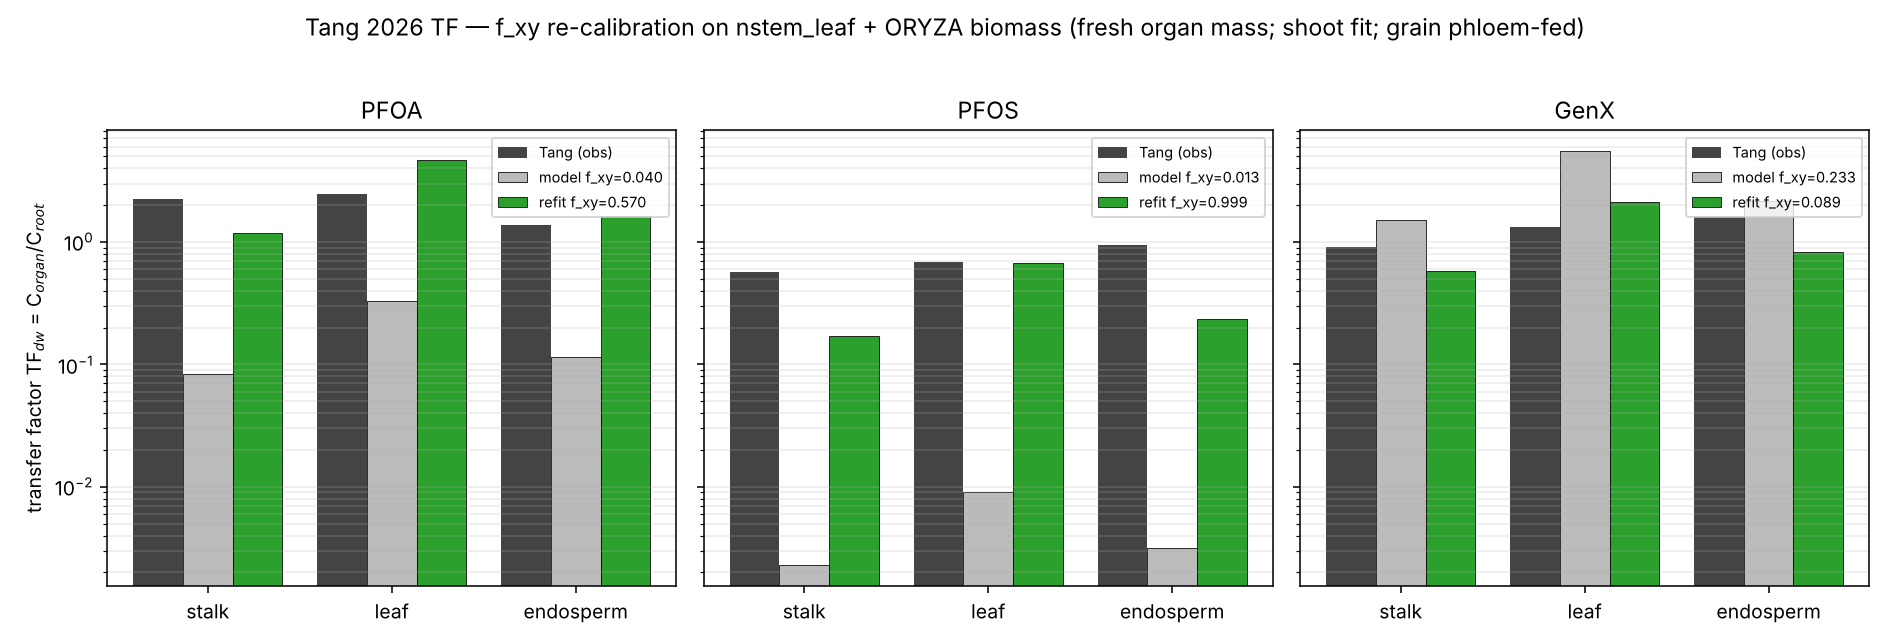
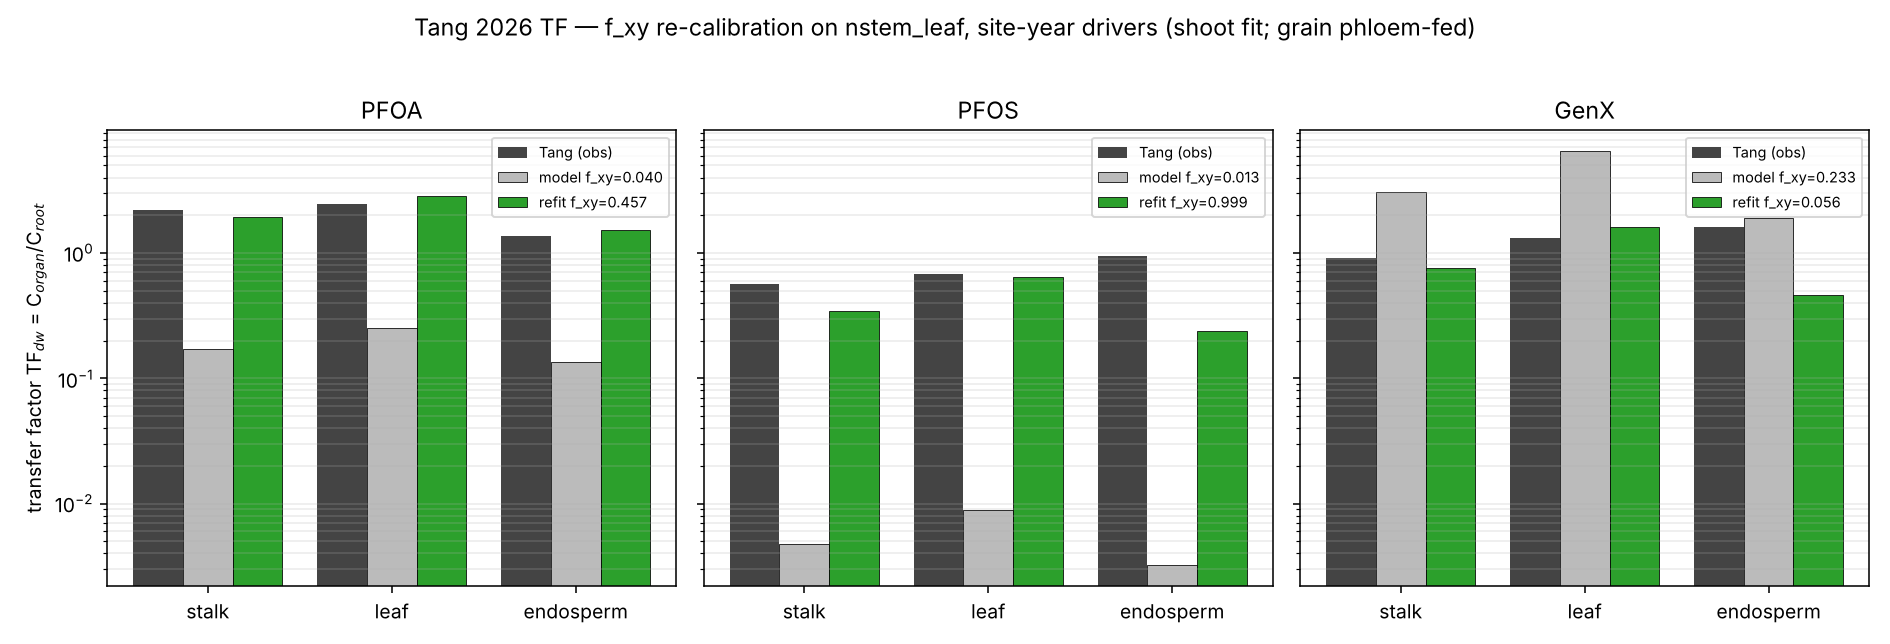
Tang refit on the site-year drivers; Kim and Li re-scored on the corrected model
- validation/tang2026_fxy_refit.py (nstem_leaf, default drivers, harvest operator, 0.1 ug/g):
  f_xy PFOA 0.457 / PFOS 0.999 (ceiling) / GenX 0.056; overall 1.41 -> 0.28 in-sample.
  model_api.TANG_REFIT_FXY updated.
- Kim 2019 with non-detects (pre-registered rule unchanged): point / interval log10 RMSE
  mono 2.06/1.77, fit 0.68/0.54, lipid 0.50/0.28, nstem+lipid 0.43/0.18 -> no robust
  winner (nstem+lipid leads lipid by < 0.1 on the point score); C11 rise robust, C12 not.
- Li 2025 stage by stage: nstem+lipid 0.43/0.55 (shoot/grain) beats every other variant
  by > 0.1 on both -> discriminates, as before; holds under the stage-DVS shifts and both
  post-hoc estimators; no shape signal.

(Correction to the previous commit message: amendment 1 of the refit pre-registration is
1f75f42, not b9e9a85.)

Claude-Session: https://claude.ai/code/session_013b8P7j4Mwgr9L9hKoQBuRB

diff --git a/tests/test_kim2019_censored.py b/tests/test_kim2019_censored.py
@@ -51,15 +51,16 @@ def test_the_c11_rise_survives_the_non_detects_and_c12_does_not(result):
 
 def test_scores_and_verdict(result):
     sc = result["scores"]
-    assert sc["lipid"]["point"] == pytest.approx(0.50, abs=0.02)        # the documented Kim score
-    assert sc["mono"]["point"] == pytest.approx(2.77, abs=0.03)
-    assert sc["W2"]["point"] == pytest.approx(1.67, abs=0.03)
-    assert sc["nstem_lipid"]["interval"] == pytest.approx(0.14, abs=0.02)
-    assert sc["lipid"]["interval"] == pytest.approx(0.38, abs=0.02)
+    assert sc["lipid"]["point"] == pytest.approx(0.50, abs=0.02)
+    assert sc["nstem_lipid"]["point"] == pytest.approx(0.43, abs=0.02)
+    assert sc["mono"]["point"] == pytest.approx(2.06, abs=0.03)
+    assert sc["fit"]["point"] == pytest.approx(0.68, abs=0.03)
+    assert sc["nstem_lipid"]["interval"] == pytest.approx(0.18, abs=0.02)
+    assert sc["lipid"]["interval"] == pytest.approx(0.28, abs=0.02)
     for v in ("lipid", "nstem_lipid"):
-        for u in ("mono", "W2"):
-            for k in ("point", "interval"):
-                assert sc[u][k] - sc[v][k] > 1.0
+        for k in ("point", "interval"):
+            assert sc["mono"][k] - sc[v][k] > 1.0                      # the free anion misses
+            assert sc["fit"][k] - sc[v][k] > 0.15                      # so does the Yamazaki fit
     assert all(sc[v]["interval"] <= sc[v]["point"] for v in sc)         # intervals only help
     assert result["winner"] is None
 

diff --git a/tests/test_li2025_stage_resolved.py b/tests/test_li2025_stage_resolved.py
@@ -61,9 +61,9 @@ def test_the_pre_registered_verdict(result):
     sc = result["scores"]
     assert result["winner"] == "nstem_lipid"
     assert sc["nstem_lipid"]["rmse"]["shoot"] == pytest.approx(0.43, abs=0.02)
-    assert sc["nstem_lipid"]["rmse"]["grain"] == pytest.approx(0.52, abs=0.02)
-    assert sc["lipid"]["rmse"]["shoot"] == pytest.approx(0.81, abs=0.02)
-    assert sc["lipid"]["rmse"]["grain"] == pytest.approx(1.52, abs=0.03)
+    assert sc["nstem_lipid"]["rmse"]["grain"] == pytest.approx(0.55, abs=0.02)
+    assert sc["lipid"]["rmse"]["shoot"] == pytest.approx(0.95, abs=0.02)
+    assert sc["lipid"]["rmse"]["grain"] == pytest.approx(1.17, abs=0.03)
 
 
 def test_posthoc_estimators_and_decomposition(result):

diff --git a/src/model_api.py b/src/model_api.py
@@ -219,7 +219,7 @@ def yamazaki_harvest_baf(congener, runs="both", dead_leaf_attached=1.0, scenario
 TANG_CONGENERS = ("PFOA", "PFOS", "GenX")
 # f_xy re-fit to Tang TF at the 0.1 ug/g dose (OVERRIDE-only; validation/tang2026_fxy_refit.py),
 # on the same drivers `tang_tf_validation` runs (the calibration site-year).
-TANG_REFIT_FXY = {"PFOA": 0.570, "PFOS": 0.999, "GenX": 0.089}
+TANG_REFIT_FXY = {"PFOA": 0.457, "PFOS": 0.999, "GenX": 0.056}
 _TANG_TF_ENDPOINT = {"TF_stalk": "stalk", "TF_leaf": "leaf", "TF_endosperm": "endosperm"}
 # (model grain pool, Tang organ name, theta key) for the fresh->dry conversion
 _TANG_ORGANS = (("stem", "stalk", "stem"), ("leaf", "leaf", "leaf"), ("grain", "endosperm", "grain_brown"))
